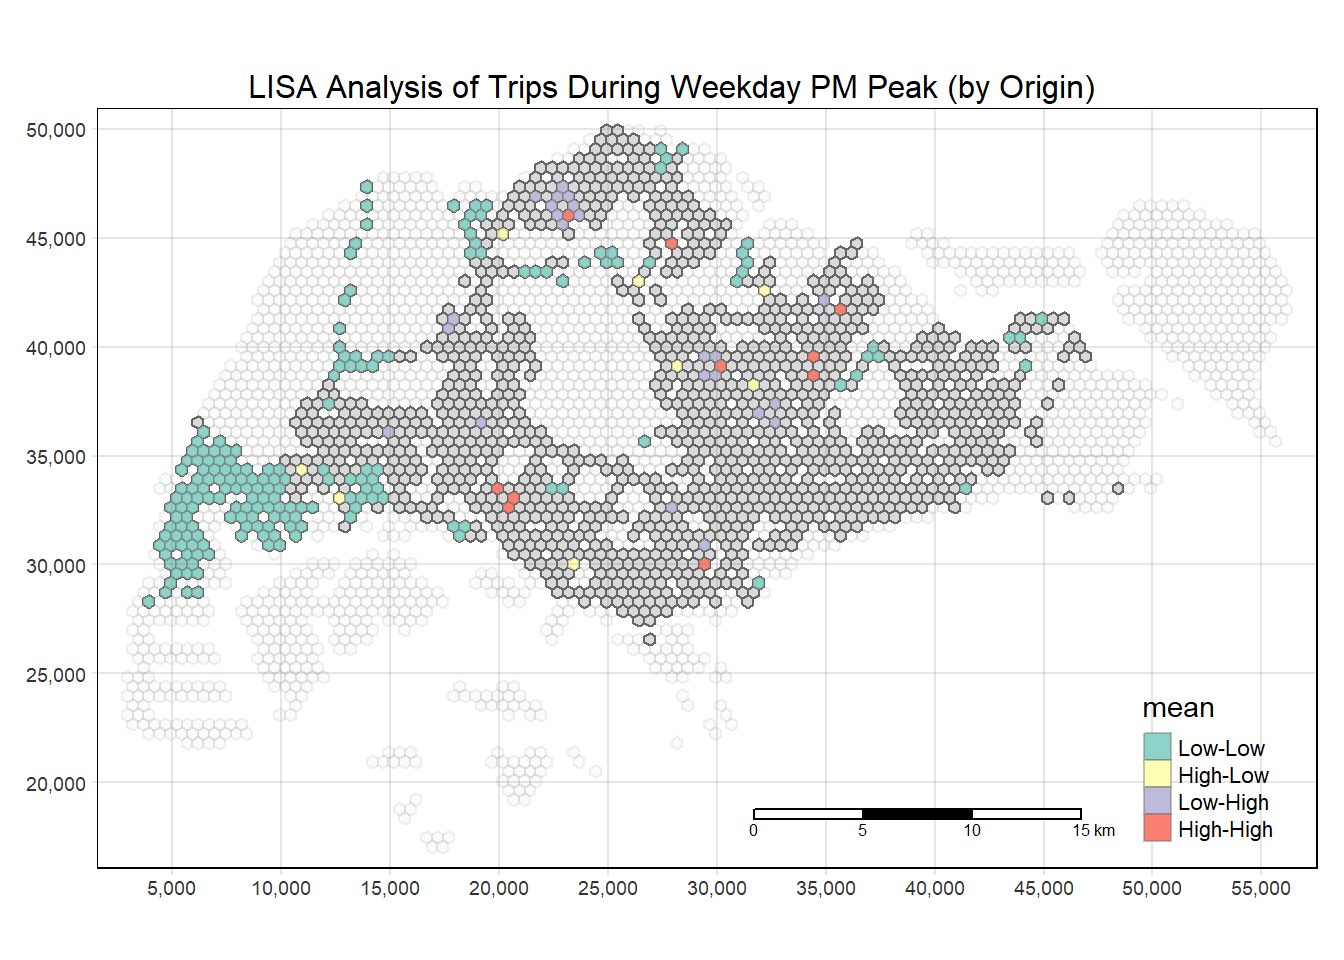
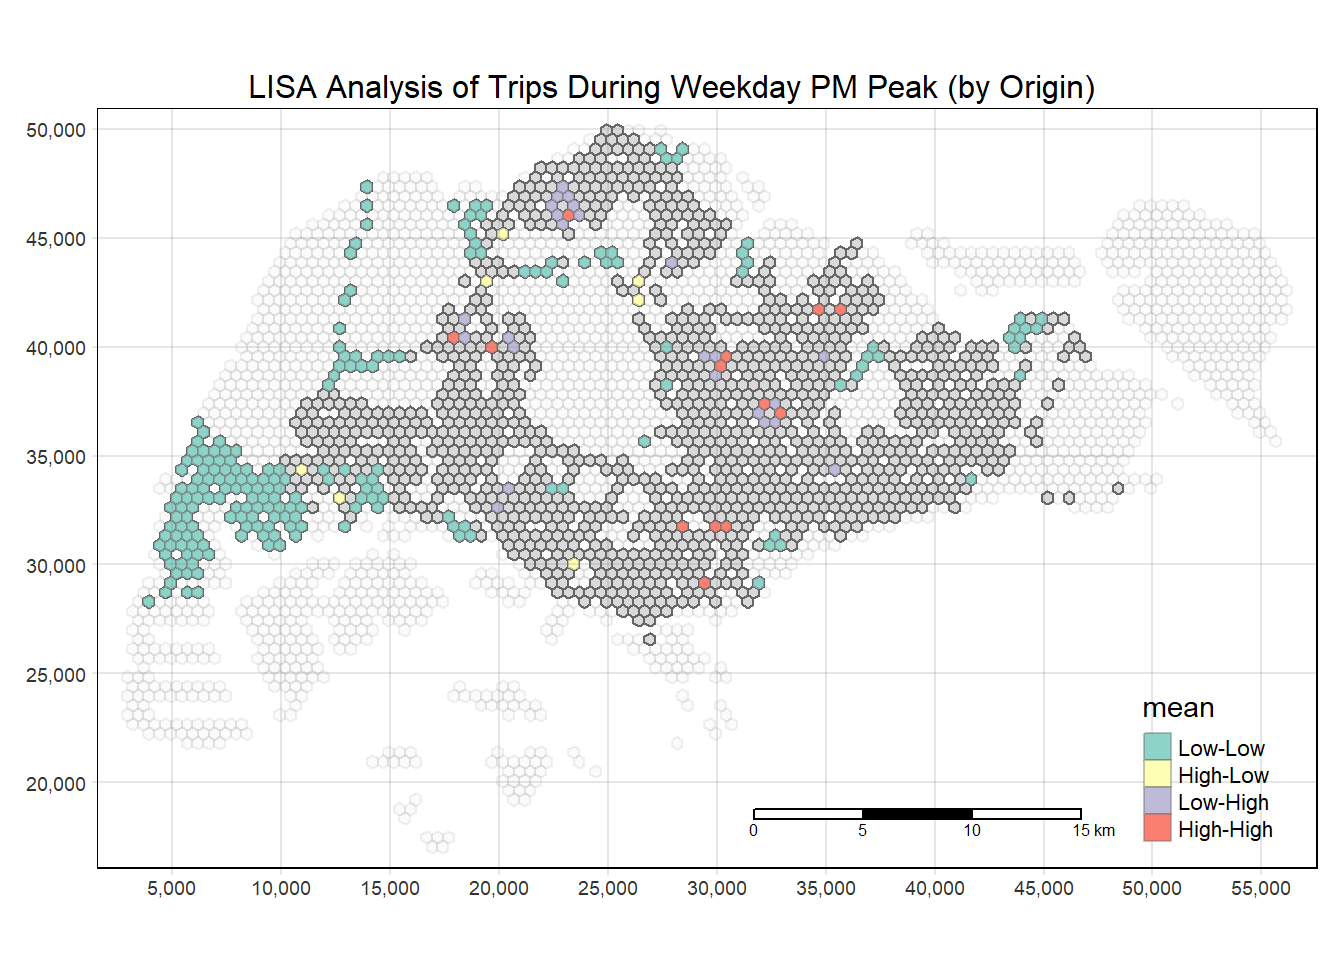
Commit Take-home Ex01

diff --git a/_site/Take_Home_Ex/Take_home_Ex01/Take_home_Ex01.html b/_site/Take_Home_Ex/Take_home_Ex01/Take_home_Ex01.html
@@ -1305,16 +1305,16 @@ Projected CRS: SVY21 / Singapore TM
 # A tibble: 1,386 × 17
         ii      eii  var_ii  z_ii   p_ii p_ii_sim p_folded_sim skewness kurtosis
      &lt;dbl&gt;    &lt;dbl&gt;   &lt;dbl&gt; &lt;dbl&gt;  &lt;dbl&gt;    &lt;dbl&gt;        &lt;dbl&gt;    &lt;dbl&gt;    &lt;dbl&gt;
- 1 0.00214  2.78e-5 1.43e-6  1.77 0.0767     0.02         0.01   -0.829    0.594
- 2 0.00486 -5.77e-5 6.28e-6  1.96 0.0497     0.02         0.01   -0.939    0.929
- 3 0.00352 -2.08e-4 3.52e-6  1.99 0.0467     0.02         0.01   -0.959    0.809
- 4 0.00508 -9.49e-5 1.08e-5  1.57 0.116      0.02         0.01   -1.83     4.60 
- 5 0.00558 -1.19e-4 8.70e-6  1.93 0.0534     0.02         0.01   -1.00     0.985
- 6 0.00447  1.06e-4 6.36e-6  1.73 0.0835     0.02         0.01   -0.831    0.448
- 7 0.00491  1.26e-4 8.42e-6  1.65 0.0994     0.02         0.01   -1.44     2.58 
- 8 0.00570 -1.52e-4 1.01e-5  1.84 0.0656     0.02         0.01   -1.54     3.58 
- 9 0.00566  1.09e-5 1.05e-5  1.74 0.0817     0.02         0.01   -1.42     2.51 
-10 0.00473  8.96e-6 5.65e-6  1.99 0.0470     0.02         0.01   -1.02     1.40 
+ 1 0.00214  9.17e-5 1.05e-6  2.00 0.0451     0.02         0.01   -1.05    2.32  
+ 2 0.00486  3.12e-4 6.44e-6  1.79 0.0729     0.02         0.01   -1.13    1.79  
+ 3 0.00352 -8.63e-6 3.80e-6  1.81 0.0700     0.02         0.01   -0.762   0.0523
+ 4 0.00508 -3.72e-4 6.31e-6  2.17 0.0300     0.02         0.01   -0.500   0.341 
+ 5 0.00558  9.15e-5 1.03e-5  1.71 0.0867     0.02         0.01   -1.56    4.65  
+ 6 0.00447  2.71e-5 8.30e-6  1.54 0.123      0.02         0.01   -2.00    7.09  
+ 7 0.00491  2.12e-4 8.40e-6  1.62 0.105      0.02         0.01   -2.03    6.16  
+ 8 0.00570 -1.19e-4 9.37e-6  1.90 0.0573     0.02         0.01   -1.23    2.49  
+ 9 0.00566  1.58e-4 8.15e-6  1.93 0.0539     0.02         0.01   -1.06    0.997 
+10 0.00473 -1.29e-4 6.90e-6  1.85 0.0643     0.02         0.01   -0.480  -0.452 
 # ℹ 1,376 more rows
 # ℹ 8 more variables: mean &lt;fct&gt;, median &lt;fct&gt;, pysal &lt;fct&gt;, nb &lt;nb&gt;,
 #   wt &lt;list&gt;, id &lt;fct&gt;, TRIPS &lt;dbl&gt;, geometry &lt;POLYGON [m]&gt;</code></pre>
@@ -1367,18 +1367,18 @@ Dimension:     XY
 Bounding box:  xmin: 3667.538 ymin: 26285.36 xmax: 48667.54 ymax: 50245.4
 Projected CRS: SVY21 / Singapore TM
 # A tibble: 1,396 × 17
-        ii      eii  var_ii  z_ii   p_ii p_ii_sim p_folded_sim skewness kurtosis
-     &lt;dbl&gt;    &lt;dbl&gt;   &lt;dbl&gt; &lt;dbl&gt;  &lt;dbl&gt;    &lt;dbl&gt;        &lt;dbl&gt;    &lt;dbl&gt;    &lt;dbl&gt;
- 1 0.00114  7.58e-5 5.66e-7  1.41 0.159      0.02         0.01    -2.13     6.05
- 2 0.00259 -1.13e-4 4.69e-6  1.25 0.212      0.02         0.01    -2.09     5.78
- 3 0.00172  1.42e-5 9.73e-7  1.73 0.0833     0.02         0.01    -1.24     1.62
- 4 0.00270 -3.59e-4 8.01e-6  1.08 0.280      0.02         0.01    -3.64    18.2 
- 5 0.00301  2.15e-4 4.48e-6  1.32 0.187      0.02         0.01    -2.69    10.0 
- 6 0.00237  1.31e-4 2.24e-6  1.50 0.134      0.02         0.01    -1.31     1.32
- 7 0.00229  4.95e-5 2.49e-6  1.42 0.156      0.02         0.01    -2.19     6.70
- 8 0.00280  1.14e-4 4.01e-6  1.34 0.180      0.02         0.01    -3.15    14.8 
- 9 0.00305 -6.97e-5 3.47e-6  1.67 0.0941     0.02         0.01    -1.70     3.64
-10 0.00261  2.09e-4 3.16e-6  1.35 0.177      0.02         0.01    -2.94    13.8 
+        ii       eii  var_ii  z_ii  p_ii p_ii_sim p_folded_sim skewness kurtosis
+     &lt;dbl&gt;     &lt;dbl&gt;   &lt;dbl&gt; &lt;dbl&gt; &lt;dbl&gt;    &lt;dbl&gt;        &lt;dbl&gt;    &lt;dbl&gt;    &lt;dbl&gt;
+ 1 0.00114   1.55e-4 4.46e-7 1.47  0.142     0.02         0.01    -1.38     2.16
+ 2 0.00259  -5.25e-5 7.14e-6 0.989 0.323     0.02         0.01    -3.84    18.7 
+ 3 0.00172   9.97e-5 1.42e-6 1.36  0.174     0.02         0.01    -3.42    17.6 
+ 4 0.00270  -1.46e-5 6.86e-6 1.04  0.300     0.02         0.01    -4.17    23.8 
+ 5 0.00301  -6.69e-5 7.82e-6 1.10  0.272     0.02         0.01    -3.30    14.2 
+ 6 0.00237  -1.43e-4 2.67e-6 1.54  0.124     0.02         0.01    -1.30     1.99
+ 7 0.00229  -1.86e-4 4.87e-6 1.12  0.262     0.02         0.01    -3.47    17.2 
+ 8 0.00280  -3.49e-4 8.50e-6 1.08  0.280     0.02         0.01    -3.64    14.9 
+ 9 0.00305   1.99e-4 3.12e-6 1.62  0.106     0.02         0.01    -2.09     6.29
+10 0.00261   2.16e-4 4.32e-6 1.15  0.249     0.04         0.02    -2.35     7.09
 # ℹ 1,386 more rows
 # ℹ 8 more variables: mean &lt;fct&gt;, median &lt;fct&gt;, pysal &lt;fct&gt;, nb &lt;nb&gt;,
 #   wt &lt;list&gt;, id &lt;fct&gt;, TRIPS &lt;dbl&gt;, geometry &lt;POLYGON [m]&gt;</code></pre>
@@ -1432,16 +1432,16 @@ Projected CRS: SVY21 / Singapore TM
 # A tibble: 1,371 × 17
         ii      eii  var_ii  z_ii   p_ii p_ii_sim p_folded_sim skewness kurtosis
      &lt;dbl&gt;    &lt;dbl&gt;   &lt;dbl&gt; &lt;dbl&gt;  &lt;dbl&gt;    &lt;dbl&gt;        &lt;dbl&gt;    &lt;dbl&gt;    &lt;dbl&gt;
- 1 0.00396 -5.73e-5 4.32e-6  1.93 0.0530     0.02         0.01   -0.970     1.67
- 2 0.00261 -3.17e-4 3.53e-6  1.56 0.119      0.02         0.01   -1.85      6.02
- 3 0.00422 -2.75e-4 6.11e-6  1.82 0.0693     0.02         0.01   -1.09      1.49
- 4 0.00450  9.61e-5 9.27e-6  1.45 0.148      0.02         0.01   -1.51      1.92
- 5 0.00365 -3.28e-4 7.78e-6  1.42 0.154      0.02         0.01   -1.58      2.76
- 6 0.00406  3.66e-4 4.98e-6  1.65 0.0979     0.02         0.01   -1.56      3.65
- 7 0.00432  4.15e-4 4.77e-6  1.79 0.0741     0.02         0.01   -1.43      3.44
- 8 0.00463 -9.81e-6 6.85e-6  1.77 0.0765     0.02         0.01   -1.45      2.16
- 9 0.00361  3.09e-4 3.47e-6  1.77 0.0764     0.02         0.01   -0.687     1.09
-10 0.00461  2.96e-4 4.30e-6  2.08 0.0378     0.02         0.01   -1.35      3.60
+ 1 0.00396 -6.62e-4 8.18e-6  1.62 0.106      0.02         0.01    -2.04    4.94 
+ 2 0.00261  3.10e-4 1.93e-6  1.66 0.0974     0.02         0.01    -1.74    4.46 
+ 3 0.00422  5.04e-5 6.27e-6  1.66 0.0963     0.02         0.01    -1.47    2.66 
+ 4 0.00450  2.03e-5 7.51e-6  1.64 0.102      0.02         0.01    -1.05    0.965
+ 5 0.00365  8.58e-5 5.43e-6  1.53 0.127      0.02         0.01    -1.85    3.73 
+ 6 0.00406  4.51e-4 3.93e-6  1.82 0.0687     0.02         0.01    -1.58    3.93 
+ 7 0.00432 -1.98e-5 7.07e-6  1.63 0.103      0.02         0.01    -1.59    3.03 
+ 8 0.00463  4.97e-4 5.96e-6  1.69 0.0909     0.02         0.01    -1.52    3.17 
+ 9 0.00361 -1.29e-5 6.46e-6  1.42 0.154      0.02         0.01    -1.81    4.01 
+10 0.00461  9.94e-5 5.32e-6  1.95 0.0507     0.02         0.01    -1.11    1.86 
 # ℹ 1,361 more rows
 # ℹ 8 more variables: mean &lt;fct&gt;, median &lt;fct&gt;, pysal &lt;fct&gt;, nb &lt;nb&gt;,
 #   wt &lt;list&gt;, id &lt;fct&gt;, TRIPS &lt;dbl&gt;, geometry &lt;POLYGON [m]&gt;</code></pre>
@@ -1493,18 +1493,18 @@ Dimension:     XY
 Bounding box:  xmin: 3667.538 ymin: 26285.36 xmax: 46667.54 ymax: 50245.4
 Projected CRS: SVY21 / Singapore TM
 # A tibble: 1,372 × 17
-        ii       eii  var_ii  z_ii  p_ii p_ii_sim p_folded_sim skewness kurtosis
-     &lt;dbl&gt;     &lt;dbl&gt;   &lt;dbl&gt; &lt;dbl&gt; &lt;dbl&gt;    &lt;dbl&gt;        &lt;dbl&gt;    &lt;dbl&gt;    &lt;dbl&gt;
- 1 0.00131  -9.32e-5 1.85e-6  1.04 0.300     0.02         0.01    -4.63    30.4 
- 2 0.00289  -1.85e-4 4.22e-6  1.50 0.135     0.02         0.01    -2.19     6.10
- 3 0.00206   2.28e-4 1.93e-6  1.32 0.187     0.02         0.01    -2.45     8.83
- 4 0.00308   9.60e-5 7.23e-6  1.11 0.267     0.02         0.01    -3.97    21.9 
- 5 0.00332  -4.10e-4 7.75e-6  1.34 0.180     0.02         0.01    -3.10    15.1 
- 6 0.00275   1.39e-5 3.56e-6  1.45 0.148     0.02         0.01    -2.13     5.56
- 7 0.00280   9.00e-5 3.84e-6  1.38 0.167     0.02         0.01    -3.84    22.8 
- 8 0.00294  -3.26e-4 5.58e-6  1.38 0.167     0.02         0.01    -1.80     3.86
- 9 0.00340  -1.86e-4 7.77e-6  1.29 0.198     0.02         0.01    -1.72     3.09
-10 0.00259  -3.84e-4 7.29e-6  1.10 0.271     0.04         0.02    -1.74     2.92
+        ii      eii  var_ii  z_ii   p_ii p_ii_sim p_folded_sim skewness kurtosis
+     &lt;dbl&gt;    &lt;dbl&gt;   &lt;dbl&gt; &lt;dbl&gt;  &lt;dbl&gt;    &lt;dbl&gt;        &lt;dbl&gt;    &lt;dbl&gt;    &lt;dbl&gt;
+ 1 0.00131  1.32e-4 4.61e-7  1.74 0.0817     0.02         0.01    -1.01    0.913
+ 2 0.00289 -1.32e-4 6.04e-6  1.23 0.219      0.02         0.01    -3.40   16.0  
+ 3 0.00206  4.90e-6 2.17e-6  1.40 0.162      0.02         0.01    -1.61    2.48 
+ 4 0.00308  1.18e-4 3.84e-6  1.51 0.130      0.02         0.01    -1.55    2.84 
+ 5 0.00332  1.63e-4 3.44e-6  1.70 0.0882     0.02         0.01    -1.40    2.25 
+ 6 0.00275  8.45e-5 3.78e-6  1.37 0.171      0.02         0.01    -2.38    8.89 
+ 7 0.00280 -3.28e-5 3.30e-6  1.56 0.119      0.02         0.01    -2.09    5.85 
+ 8 0.00294  2.73e-4 2.64e-6  1.64 0.101      0.02         0.01    -1.69    4.60 
+ 9 0.00340  1.15e-4 4.88e-6  1.49 0.137      0.02         0.01    -1.82    5.34 
+10 0.00259  2.11e-4 3.25e-6  1.32 0.188      0.02         0.01    -1.49    2.42 
 # ℹ 1,362 more rows
 # ℹ 8 more variables: mean &lt;fct&gt;, median &lt;fct&gt;, pysal &lt;fct&gt;, nb &lt;nb&gt;,
 #   wt &lt;list&gt;, id &lt;fct&gt;, TRIPS &lt;dbl&gt;, geometry &lt;POLYGON [m]&gt;</code></pre>
